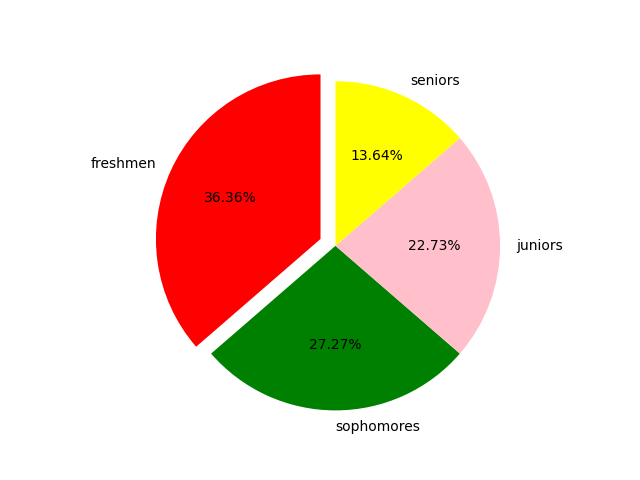
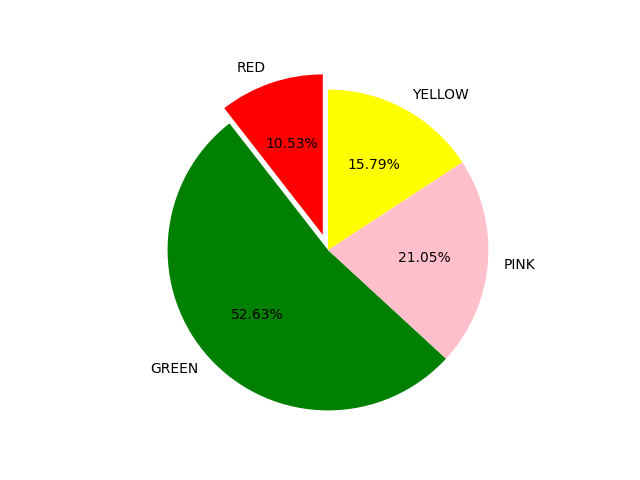
added interpreter

diff --git a/main.py b/main.py
@@ -1,7 +1,7 @@
 import matplotlib.pyplot as plot
 # set up your lists
-numlist = [8, 6, 5, 3]
-namelist = ['freshmen', 'sophomores', 'juniors', 'seniors']
+numlist = [2, 10, 4, 3]
+namelist = ['RED', 'GREEN', 'PINK', 'YELLOW']
 colorlist = ['red', 'green', 'pink', 'yellow' ]
 explodelist = [0.1, 0.0, 0.0, 0.0]
 # make the pie chart
